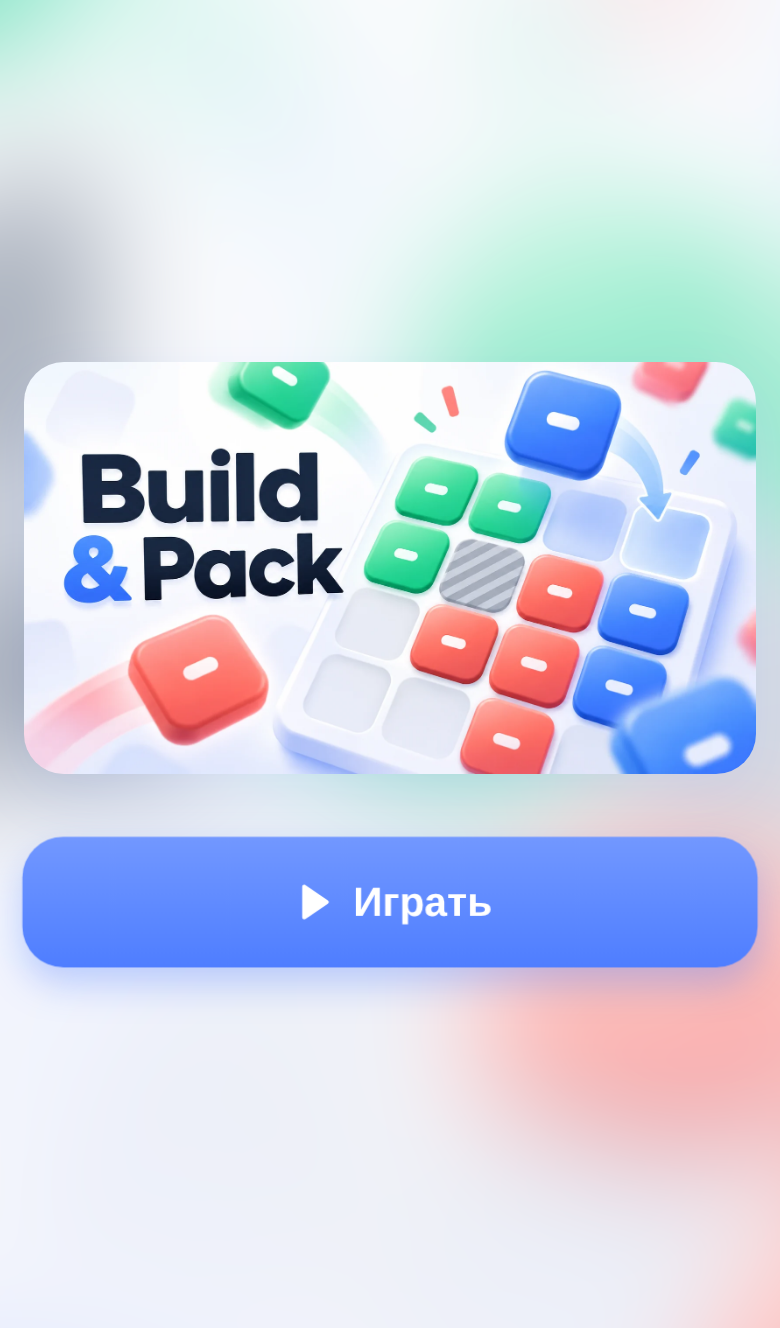
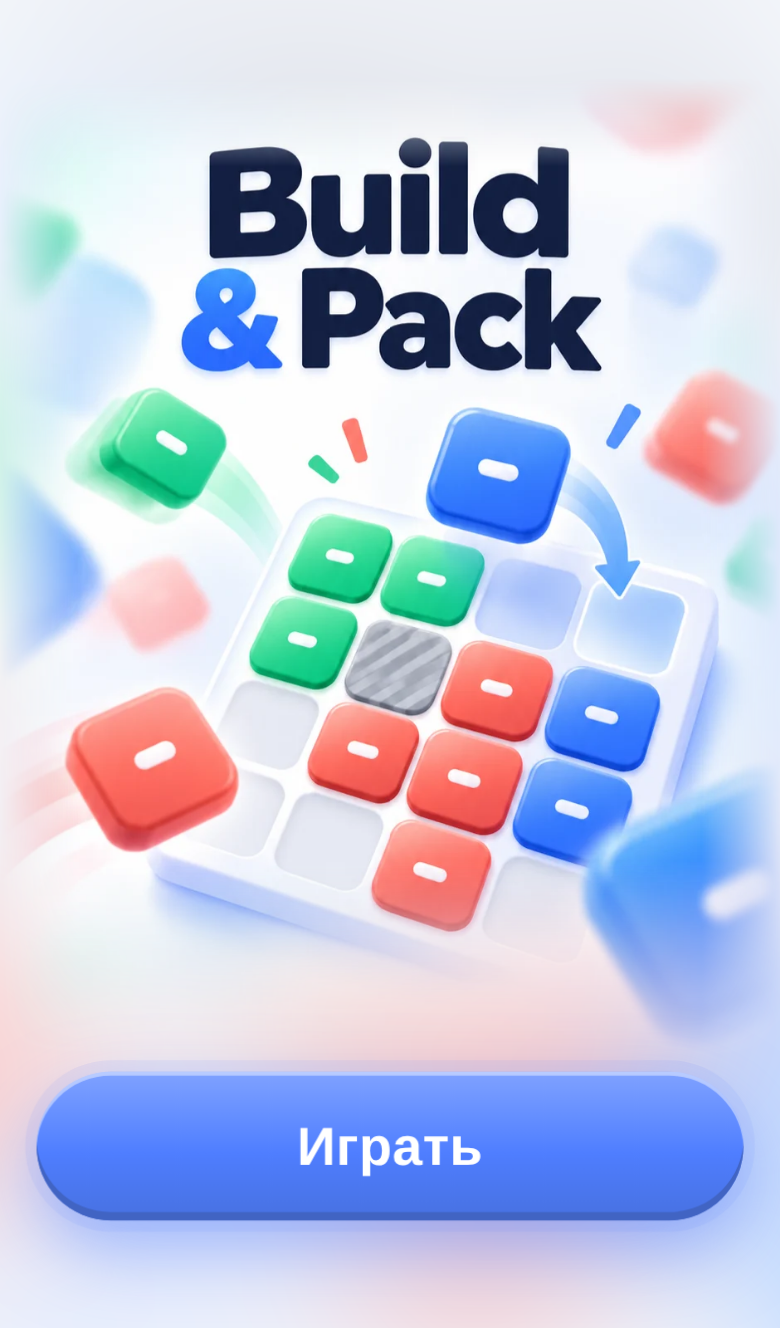
Build & Pack: first screen from the author's art, animated Play button
Art cropped above the painted button and generator caption, edges fade
into a blurred copy; real pill button breathes, glows and gets a shine
sweep every 3.2 s. Fits without scroll from 360x560.

Claude-Session: https://claude.ai/code/session_01Cmo7VGTDwpgdT4Hfckucjs

diff --git a/apps/roll-pack/src/styles.css b/apps/roll-pack/src/styles.css
@@ -102,16 +102,40 @@ svg { display: block; }
 .c-yellow { --c: var(--ui-yellow); }
 .c-green { --c: var(--ui-success); }
 
-/* ---------- главный: баннер фоном и карточкой ---------- */
-.home { align-items: center; text-align: center; overflow: hidden; background: var(--ui-background); }
+/* ---------- главный: арт во весь экран и живая кнопка ---------- */
+.home { align-items: center; justify-content: center; overflow: hidden; background: var(--ui-background); padding: env(safe-area-inset-top) 0 0; }
 .home > * { position: relative; z-index: 1; }
-.home .home-bg { position: absolute; inset: -48px; z-index: 0; background: var(--banner) center / cover no-repeat; filter: blur(28px) saturate(1.15); opacity: .5; transform: scale(1.15); }
-.home { justify-content: center; }
-.home-center { width: 100%; display: flex; flex-direction: column; align-items: center; gap: var(--ui-space-6); }
-.home-banner { width: 100%; max-width: 440px; height: auto; border-radius: var(--ui-radius-card); box-shadow: var(--ui-shadow-card); animation: banner-in 420ms cubic-bezier(.2,.8,.2,1) both; }
-@keyframes banner-in { from { opacity: 0; transform: translateY(12px) scale(.98); } }
-.home .btn-large { max-width: 360px; animation: breathe 2.4s ease-in-out infinite; }
-@keyframes breathe { 50% { transform: scale(1.03); } }
+.home .home-bg { position: absolute; inset: -60px; z-index: 0; background: linear-gradient(var(--ui-background) 8%, transparent 40%), var(--art) center 80% / cover no-repeat; filter: blur(36px) saturate(1.1); opacity: .35; transform: scale(1.2); }
+.home-art { width: 100%; max-width: 480px; height: auto; max-height: calc(100dvh - 130px - env(safe-area-inset-top) - env(safe-area-inset-bottom)); min-height: 0; flex: 0 1 auto; object-fit: contain; object-position: bottom;
+  /* Низ и края растворяются в размытой копии: на любом экране нет видимой рамки. */
+  -webkit-mask-image: linear-gradient(transparent, #000 9%, #000 80%, transparent), linear-gradient(90deg, transparent, #000 10%, #000 90%, transparent);
+  -webkit-mask-composite: source-in;
+  mask-image: linear-gradient(transparent, #000 9%, #000 80%, transparent), linear-gradient(90deg, transparent, #000 10%, #000 90%, transparent);
+  mask-composite: intersect;
+  animation: art-in 480ms cubic-bezier(.2,.8,.2,1) both; }
+@keyframes art-in { from { opacity: 0; transform: translateY(-10px); } }
+
+/* Кнопка «Играть» как на арте: пилюля, крупный текст. Дышит, светится и
+   раз в 3 с по ней пробегает блик — зовёт нажать, не мельтеша. */
+.play-btn {
+  position: relative; overflow: hidden; flex: none;
+  width: calc(100% - 2 * var(--ui-space-5)); max-width: 360px; height: 72px; margin: var(--ui-space-2) 0 calc(var(--ui-space-4) + env(safe-area-inset-bottom));
+  border-radius: 999px; color: #fff; font-size: 26px; font-weight: 700; letter-spacing: .01em;
+  background: linear-gradient(180deg, color-mix(in srgb, var(--ui-blue) 72%, #fff) 0%, var(--ui-blue) 55%, color-mix(in srgb, var(--ui-blue) 85%, #1f2937) 100%);
+  box-shadow: inset 0 2px 0 rgba(255,255,255,.45), inset 0 -4px 0 color-mix(in srgb, var(--ui-blue) 70%, #1f2937), 0 12px 28px rgba(79,126,255,.4);
+  animation: play-breathe 2.4s ease-in-out infinite, play-glow 2.4s ease-in-out infinite;
+  transition: transform 120ms ease;
+}
+.play-btn::after {
+  content: ""; position: absolute; top: 0; bottom: 0; left: -40%; width: 30%;
+  background: linear-gradient(100deg, transparent, rgba(255,255,255,.55), transparent);
+  transform: skewX(-20deg); animation: play-shine 3.2s ease-in-out infinite 1s;
+}
+.play-btn:active { transform: scale(.95); animation-play-state: paused; }
+@keyframes play-breathe { 0%, 100% { transform: scale(1); } 50% { transform: scale(1.045); } }
+@keyframes play-glow { 0%, 100% { box-shadow: inset 0 2px 0 rgba(255,255,255,.45), inset 0 -4px 0 color-mix(in srgb, var(--ui-blue) 70%, #1f2937), 0 12px 28px rgba(79,126,255,.35); }
+  50% { box-shadow: inset 0 2px 0 rgba(255,255,255,.45), inset 0 -4px 0 color-mix(in srgb, var(--ui-blue) 70%, #1f2937), 0 16px 40px rgba(79,126,255,.6), 0 0 0 8px rgba(79,126,255,.12); } }
+@keyframes play-shine { 0%, 55% { left: -40%; } 85%, 100% { left: 130%; } }
 .sr-only { position: absolute; width: 1px; height: 1px; overflow: hidden; clip: rect(0 0 0 0); white-space: nowrap; }
 
 /* ---------- уровни ---------- */

diff --git a/apps/roll-pack/src/ui/screens.ts b/apps/roll-pack/src/ui/screens.ts
@@ -1,6 +1,6 @@
 import type { Level } from '../engine/types.ts';
 import { LEVELS } from '../levels/levels.ts';
-import banner from '@ui/prototypes/roll-pack/assets/home-banner.webp';
+import art from '@ui/prototypes/roll-pack/assets/home-art.webp';
 import { icon } from './icons.ts';
 import { currentLevel, isUnlocked, loadProgress } from './storage.ts';
 
@@ -10,15 +10,14 @@ export function homeScreen(go: Go): HTMLElement {
   const el = document.createElement('main');
   el.className = 'screen home';
   el.dataset['testid'] = 'home';
-  // Баннер — фон экрана (размытый, во весь экран) и чёткая карточка сверху (§7.1).
-  el.style.setProperty('--banner', `url("${banner}")`);
+  // Арт первого экрана (§7.1): название, поле и фигуры. Низ арта растворяется в
+  // размытой копии; кнопка — настоящая, под артом.
+  el.style.setProperty('--art', `url("${art}")`);
   el.innerHTML = `
     <div class="home-bg" aria-hidden="true"></div>
-    <div class="home-center">
-      <img class="home-banner" src="${banner}" alt="" width="1672" height="941">
-      <h1 class="sr-only">Build &amp; Pack</h1>
-      <button class="btn btn-primary btn-large" data-testid="play">${icon.play}Играть</button>
-    </div>`;
+    <img class="home-art" src="${art}" alt="" width="940" height="1180">
+    <h1 class="sr-only">Build &amp; Pack</h1>
+    <button class="play-btn" data-testid="play">Играть</button>`;
   el.querySelector('[data-testid="play"]')?.addEventListener('click', () => go('#/levels'));
   return el;
 }

diff --git a/specs/38-roll-pack.md b/specs/38-roll-pack.md
@@ -311,11 +311,15 @@ type Action =
 руками, поэтому внизу; фигуру тянут вверх, и палец не закрывает место, куда
 она ложится. Готовая фигура обводит конструктор зелёным.
 
-Главный: баннер Build & Pack (`UI Design/prototypes/roll-pack/assets/home-banner.png`,
-в игре — `home-banner.webp`, 69 КБ) дважды — размытым фоном во весь экран и
-чёткой карточкой по центру экрана; сразу под ним кнопка «Играть». Другого
-текста нет (решение автора 2026-09-25). Название на баннере, поэтому текстового заголовка нет (для
-скринридера он есть). Уровни: пять карточек с числом клеток и фигур. Попапы — как у
+Главный — арт первого экрана от автора (`UI Design/prototypes/roll-pack/assets/home-screen.png`):
+название Build & Pack, поле и летящие фигуры. В игре — `home-art.webp` (55 КБ):
+арт обрезан над нарисованной кнопкой и подписью генератора, края растворяются
+в размытой копии арта на фоне. Под артом — настоящая кнопка «Играть» в стиле
+арта: синяя пилюля 72 px, текст 26 px. Кнопка зовёт нажать: дышит (масштаб
+1 → 1,045, 2,4 с), в такт мягко светится и раз в 3,2 с по ней пробегает блик.
+При `prefers-reduced-motion` анимации нет. Арт и кнопка — одной группой по
+центру экрана; помещаются без прокрутки от 360×560 (решение автора 2026-09-26).
+Уровни: пять карточек с числом клеток и фигур. Попапы — как у
 `apps/taxi-slide`. Стиль PuzzleKit, новых цветов, радиусов и теней нет.
 
 За секунду читаются: какие числа остались, какие клетки поля пустые, а какие

diff --git a/UI Design/prototypes/roll-pack/README.md b/UI Design/prototypes/roll-pack/README.md
@@ -3,8 +3,8 @@
 Спека — `specs/38-roll-pack.md`. Снимки собранного прототипа `apps/roll-pack`
 (пересобрать: `npm run build && npx tsx tools/make-screens.ts`):
 
-- `1-home.png` — главный: баннер фоном и карточкой по центру, под ним «Играть».
-- `assets/home-banner.png` — баннер от автора (исходник), `assets/home-banner.webp` — сжатая копия для игры.
+- `1-home.png` — главный: арт во весь экран, под ним живая кнопка «Играть».
+- `assets/home-screen.png` — арт первого экрана от автора (исходник, с нарисованной кнопкой); `assets/home-art.webp` — он же без кнопки и подписи генератора, для игры.
 - `2-levels.png` — уровни.
 - `game-screen.png` — игровой экран, уровень 2, 390×664: две фигуры уложены,
   третья собирается, счётчик `4/6`.
